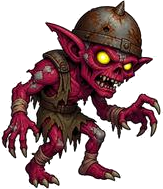
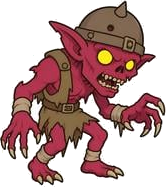
Padrão de arte único + Kael e Casca Cinzenta no estilo padrão
pipeline/PADRAO_DE_ARTE.md define âncora de estilo, prompts, slots e a lista de
trabalho para qualquer sessão continuar sem variar o visual.

Claude-Session: https://claude.ai/code/session_01Y586q1qcPzESHGxDz9FgNn

diff --git a/pipeline/tools/import_canva.py b/pipeline/tools/import_canva.py
@@ -105,7 +105,7 @@ def _ok(path):
 
 
 def missing(entries):
-    return [e for e in entries if not all(_ok(ART / s) for s in e["slots"])]
+    return [e for e in entries if not e.get("obsolete") and not all(_ok(ART / s) for s in e["slots"])]
 
 
 def newest(folder, since, known):

diff --git a/pipeline/PADRAO_DE_ARTE.md b/pipeline/PADRAO_DE_ARTE.md
@@ -1,0 +1,207 @@
+# Bastion Rush — PADRÃO DE ARTE (fonte única da verdade)
+
+Tudo no jogo é **desenho 2D**, estilo desenho animado de TV (Cartoon Network /
+Nickelodeon) com visual de Kingdom Rush. **Nada de 3D** para personagens, torres,
+efeitos ou mapas. Toda arte nova segue ESTE arquivo, sem exceção.
+
+Responda o desenvolvedor sempre em **português**.
+
+---
+
+## 1. Âncoras de estilo (use SEMPRE como referência no Canva)
+
+| Papel | Canva media id | O que é |
+|---|---|---|
+| **ÂNCORA PRINCIPAL** | `MAHXvKTpLPs` | Ogro vermelho com clava (Devastador). É ESTE o estilo. |
+| Aprovado | `MAHXvY4CaRE` | Casca Cinzenta redesenhada (goblin) |
+| Aprovado | `MAHXvUPX584` | Kael redesenhado (herói) |
+
+O desenvolvedor **rejeitou** o estilo detalhado/realista ("parece jogo da
+Nintendo", ferrugem, sujeira, anatomia realista). Se uma imagem gerada tiver
+textura, sujeira, brilho realista ou contorno fino → **descarte e gere de novo**.
+
+### Regras visuais
+- Contorno **grosso e uniforme**, marrom-escuro / quase preto.
+- Cores **chapadas** com no máximo **um** tom de sombra suave. Sem textura, sem gradiente realista.
+- Formas **arredondadas, robustas, cabeça grande**, silhueta legível de longe.
+- Personagens **olhando para a DIREITA** (o jogo espelha sozinho).
+- **Fundo branco puro**, sem chão, sem texto, sem moldura (o importador remove o branco).
+- Paleta viva e saturada, mas não neon. Heróis/aliados: quentes e azuis. Monstros: cada reino com a sua cor.
+
+### STYLE (cole no fim de TODO prompt)
+```
+Simple flat 2D TV cartoon style like Cartoon Network, matching the red ogre reference exactly:
+thick uniform dark brown outlines, flat colors with only one soft shadow tone, no texture,
+no grime, no realistic detail, rounded chunky shapes, big head, big readable silhouette.
+Plain pure white background, no ground, no text, no frame borders.
+```
+
+---
+
+## 2. Modelos de prompt (Canva `generate-image`)
+
+Sempre passe a âncora em `imageReferences`. Quando for redesenhar/animar um
+personagem que já existe, passe **primeiro o personagem, depois a âncora**.
+
+### 2a. Redesenhar personagem existente (SQUARE_1_1)
+refs: `[personagem, MAHXvKTpLPs]`
+```
+Redraw the character from the FIRST image in the EXACT art style of the SECOND image (the red ogre).
+Keep the same character identity: <descrição curta: cores, roupa, arma, pose>. Full body, single
+character, facing right. <STYLE>
+```
+
+### 2b. Personagem novo (SQUARE_1_1)
+refs: `[MAHXvKTpLPs]`
+```
+Character sprite for a mobile tower-defense game: <descrição>. Full body, single character,
+facing right, in the EXACT art style of the reference image. <STYLE>
+```
+
+### 2c. Animação quadro a quadro (LANDSCAPE_2_1) — sempre 4 quadros
+refs: `[personagem JÁ no estilo padrão, MAHXvKTpLPs]`
+```
+2D game sprite sheet of THIS EXACT character from the FIRST image (same design, same colors),
+drawn in the art style of the SECOND image. <ANIMAÇÃO>. 4 frames in a single horizontal row,
+evenly spaced with clear white gaps between frames, same size and facing right in every frame.
+<STYLE>
+```
+`<ANIMAÇÃO>` por tipo:
+- **walk**: `A WALK CYCLE: legs and arms alternating like a classic cartoon walk`
+- **fly** (voadores): `A FLYING LOOP: wings up, wings level, wings down, wings level, body bobbing`
+- **attack** (corpo a corpo): `A MELEE ATTACK: 1 ready, 2 wind-up pulling the weapon back, 3 big strike forward with a swoosh trail, 4 follow-through`
+- **attack** (à distância): `A SHOOTING ATTACK: 1 ready, 2 draw/aim, 3 release with a small flash, 4 recover`
+- **cast** (magos/chefes): `A SPELL CAST: 1 ready, 2 arms raised gathering glowing energy, 3 big magic burst, 4 recover`
+- **die**: `A DEFEAT: 1 hit recoil with pained face, 2 stumbling back, 3 falling, 4 lying knocked out with little stars` (monstros: o 4º quadro vira `dissolving into a puff of cartoon smoke`)
+
+### 2d. Torre (SQUARE_1_1)
+refs: `[MAHXvKTpLPs]` (e a torre antiga, se for redesenho)
+```
+Tower sprite for a mobile tower-defense game, Kingdom Rush layout, seen from a slightly high 3/4
+front view: <descrição>. Single object, centered, full building visible. <STYLE>
+```
+
+### 2e. Efeito / projétil (SQUARE_1_1 para efeito único; LANDSCAPE_2_1 para 4 quadros)
+refs: `[MAHXvKTpLPs]`
+```
+2D cartoon game effect: <flecha / bola de fogo / explosão / raio / poça de veneno / estrela de cura …>.
+<para animação: 4 frames in a single horizontal row showing it growing, peaking and fading>. <STYLE>
+```
+
+### 2f. Mapa de batalha (PORTRAIT_9_16)
+refs: `[MAHXvKTpLPs]` + o mapa do Portão Partido `MAHXvPjG1cg` (para manter o layout de câmera)
+```
+Top-down 3/4 painted battle map for a mobile tower-defense game in Kingdom Rush style, vertical
+portrait: <tema do reino>, <N> dirt roads coming from the top edge and joining at a castle gate
+near the bottom, round empty stone build spots beside the roads, lots of trees, rocks, props
+along the borders. Same flat cartoon style as the reference: thick outlines, flat colors.
+No characters, no text.
+```
+O número/forma de estradas tem de bater com o `layout`/`lanes` do reino em
+`godot/scripts/autoload/game_data.gd`. Depois de importar, trace estradas e
+círculos de construção em `GameData.PAINTED` (ver o de `broken_gate`;
+coordenadas UV 0–1 da imagem, `end` = v onde fica o portão).
+
+---
+
+## 3. Onde cada arte entra (slots — sem mexer em código)
+
+| Tipo | Arquivo |
+|---|---|
+| Personagem (desenho base) | `godot/assets/art/portraits/<id>.png` |
+| Animação | `godot/assets/art/anims/<id>/<anim>_<k>.png` (k = 0..3) |
+| Torre | `godot/assets/art/towers/<família>.png` |
+| Mapa de batalha | `godot/assets/art/battle/<realm_id>.png` + entrada em `GameData.PAINTED` |
+| Mapa do mundo (miniatura) | `godot/assets/art/realms/<realm_id>.png` |
+| Efeitos | `godot/assets/art/fx/<nome>.png` / `fx/<nome>_<k>.png` (código ainda precisa usar — ver §6) |
+
+Animações reconhecidas pelo motor (`scripts/game/model_rig.gd`): `idle, walk,
+attack, cast, hit, die, fly`. Quem não tem quadros usa o desenho base com
+squash & stretch. Tropas usam as pastas `troop_militia`, `troop_bowmen`,
+`troop_wolves`, `troop_knight` (o código já faz o alias).
+
+### Registro obrigatório
+Toda imagem aprovada entra em `pipeline/canva_art.json`:
+```json
+{"n": <próximo>, "title": "Animação: Kael andando", "media_id": "MAH...", "link": "https://www.canva.com/M/MAH...", "slots": ["anims/warden/walk.sheet"]}
+```
+- Slot `.sheet` = folha de 4 quadros → o importador corta sozinho em `anims/<id>/<anim>_0..3.png`.
+- Arte antiga substituída: marque `"obsolete": true` e mova `slots` para `slots_old`.
+
+### Colocar a arte no jogo
+- **Na nuvem** só chega a prévia de 200 px (o canva.com é bloqueado pelo proxy).
+  Coloque a prévia como provisória:
+  `python3 pipeline/tools/import_canva.py --file <n> <caminho da prévia em tool-results>`
+- **Alta resolução**: o desenvolvedor roda no PC dele
+  `python3 pipeline/tools/import_canva.py` (abre os links em ordem e importa os downloads),
+  ou manda as imagens numa **mensagem só de imagens** (aí ficam salvas em
+  `.../images/N.webp`; imagens coladas no meio de um turno NÃO ficam salvas).
+- Corte manual de folha: `python3 pipeline/tools/split_sheet.py FOLHA.png <id> <anim> --frames 4`
+
+---
+
+## 4. Lista de trabalho (na ordem)
+
+### Fase A — redesenhar tudo no estilo padrão (modelo 2a)
+Já no padrão: `ravager` (âncora), `husk`, `warden`.
+- Heróis: pyre_knight, thistle_archer, sister_vale, runestone, wolf_pack, frost_warden,
+  boulder_golem, stormcaller, sunspear_lancer, ashen_queen
+- Tropas: troop_militia, troop_bowmen (troop_wolves = wolf_pack, troop_knight = pyre_knight — mesmos slots)
+- Monstros já desenhados (redesenhar): wisp, ember_imp, sapling, gloombat, drowned,
+  bog_lurker, hexmage, sentry, knight, void_spawn, void_mite, ogre
+- Monstros ainda sem desenho (modelo 2b): ice_wisp, yeti, scorpion, sand_wraith,
+  magma_slime, fire_imp, spore_toad, root_horror, war_drummer, rage_shaman,
+  eclipse_knight, radiant_shade (nomes/cores em `game_data.gd`)
+- Chefes (redesenhar): the_maw, cinder_treant, drowned_king, siege_titan,
+  rift_sovereign, frost_wyrm, sand_colossus, magma_tyrant, bog_mother, the_eclipse
+- Torres: comparar as 8 de `towers/` com a âncora; redesenhar (2d) as que estiverem
+  detalhadas demais.
+
+Os media ids originais de cada personagem estão em `pipeline/canva_art.json`
+(procure pelo slot `portraits/<id>.png`).
+
+### Fase B — animações (modelo 2c), uma folha por linha
+| Grupo | Animações |
+|---|---|
+| Heróis (11) | walk, attack (ou cast para magos/curandeira), die |
+| Tropas (militia, bowmen) | walk, attack |
+| Monstros runner/brute | walk, attack, die |
+| Monstros caster | walk, cast, die |
+| Monstros flyer (gloombat, ice_wisp, sand_wraith, radiant_shade) | fly, attack, die |
+| Chefes | walk, attack, cast, die |
+
+Já pronto e no estilo: `ravager/attack`. Comece pelo reino 1 (Portão Partido:
+warden, troop_militia, troop_bowmen, wisp, husk, ravager, the_maw) para fechar uma
+fase inteira e mostrar ao desenvolvedor antes de seguir.
+
+### Fase C — efeitos (modelo 2e) e código
+Flecha, bola de fogo, bala de canhão, virote de balista, gota de veneno, raio, explosão,
+anel de impacto, cura, escudo, gelo (torre congelada), moeda de ouro.
+O código ainda desenha projéteis/anéis em 3D (`scripts/game/projectile.gd`,
+`battle.gd` → `ring_fx`, `_bolt`, `_puddle`; `enemy.gd` → `_ring`). Trocar por
+`Sprite3D` billboard com essas texturas (mesmo padrão de `ModelRig.setup_sprite`).
+
+### Fase D — mapas de batalha (modelo 2f)
+Um por reino (os 9 que faltam; `broken_gate` já existe), cada um com tema, cores e
+número de estradas do seu reino. Depois traçar em `GameData.PAINTED`.
+
+### Fase E — sobras de 3D
+Menus que ainda montam prévia 3D (`Screen.preview` em `ui/collection.gd`, `ui/hero.gd`,
+`ui/encyclopedia.gd`) → mostrar o desenho (`UIKit.art("portraits/<id>.png")`).
+
+---
+
+## 5. Verificação antes de dizer "pronto"
+```
+godot --headless --path godot --quit-after 120            # sem SCRIPT ERROR
+godot --path godot -- --scene=battle --realm=<id> --auto --level=<n>   # ler AUTO_RESULT
+godot --path godot -- --shot=/tmp/x.png --frames=300 --scene=battle --realm=<id> --auto --slot=1   # print (precisa de display; use xvfb-run)
+```
+Olhe o print: todos os personagens no mesmo estilo? pés no chão? tamanho coerente?
+
+## 6. Commits
+- Branch `claude/bastion-rush-overhaul-oejz56`, commits pequenos por lote, mensagens em português.
+- Nunca grave chaves/tokens em arquivo. Nunca use assets do APK do Kingdom Rush.
+- Não use `generate_3d` do Blender (pode custar créditos) sem perguntar.
+- Ao fim de cada fase, mostre prints ao desenvolvedor e liste os links do Canva da fase
+  (para ele baixar em alta resolução).

diff --git a/CLAUDE.md b/CLAUDE.md
@@ -4,6 +4,10 @@ Mobile (portrait, Android) last-stand roguelite: Kingdom Rush lanes × Clash Roy
 cards/Aether × Archero hero. **The game is the Godot 4.3 project in `godot/`**
 (GL Compatibility renderer, GDScript). `web-prototype/` is the old Phaser version, kept for reference only.
 
+## ART STANDARD — read first
+Everything is 2D drawn cartoon (no 3D). **All art follows `pipeline/PADRAO_DE_ARTE.md`**
+(style anchor, prompt templates, slots, work list). Never deviate from it.
+
 ## How the project is built (the asset pipeline)
 Same method as the reference video: AI images → 3D parts → assemble in Blender →
 rig (AccuRIG) → Mixamo animations → custom animations by Claude via the Blender MCP
